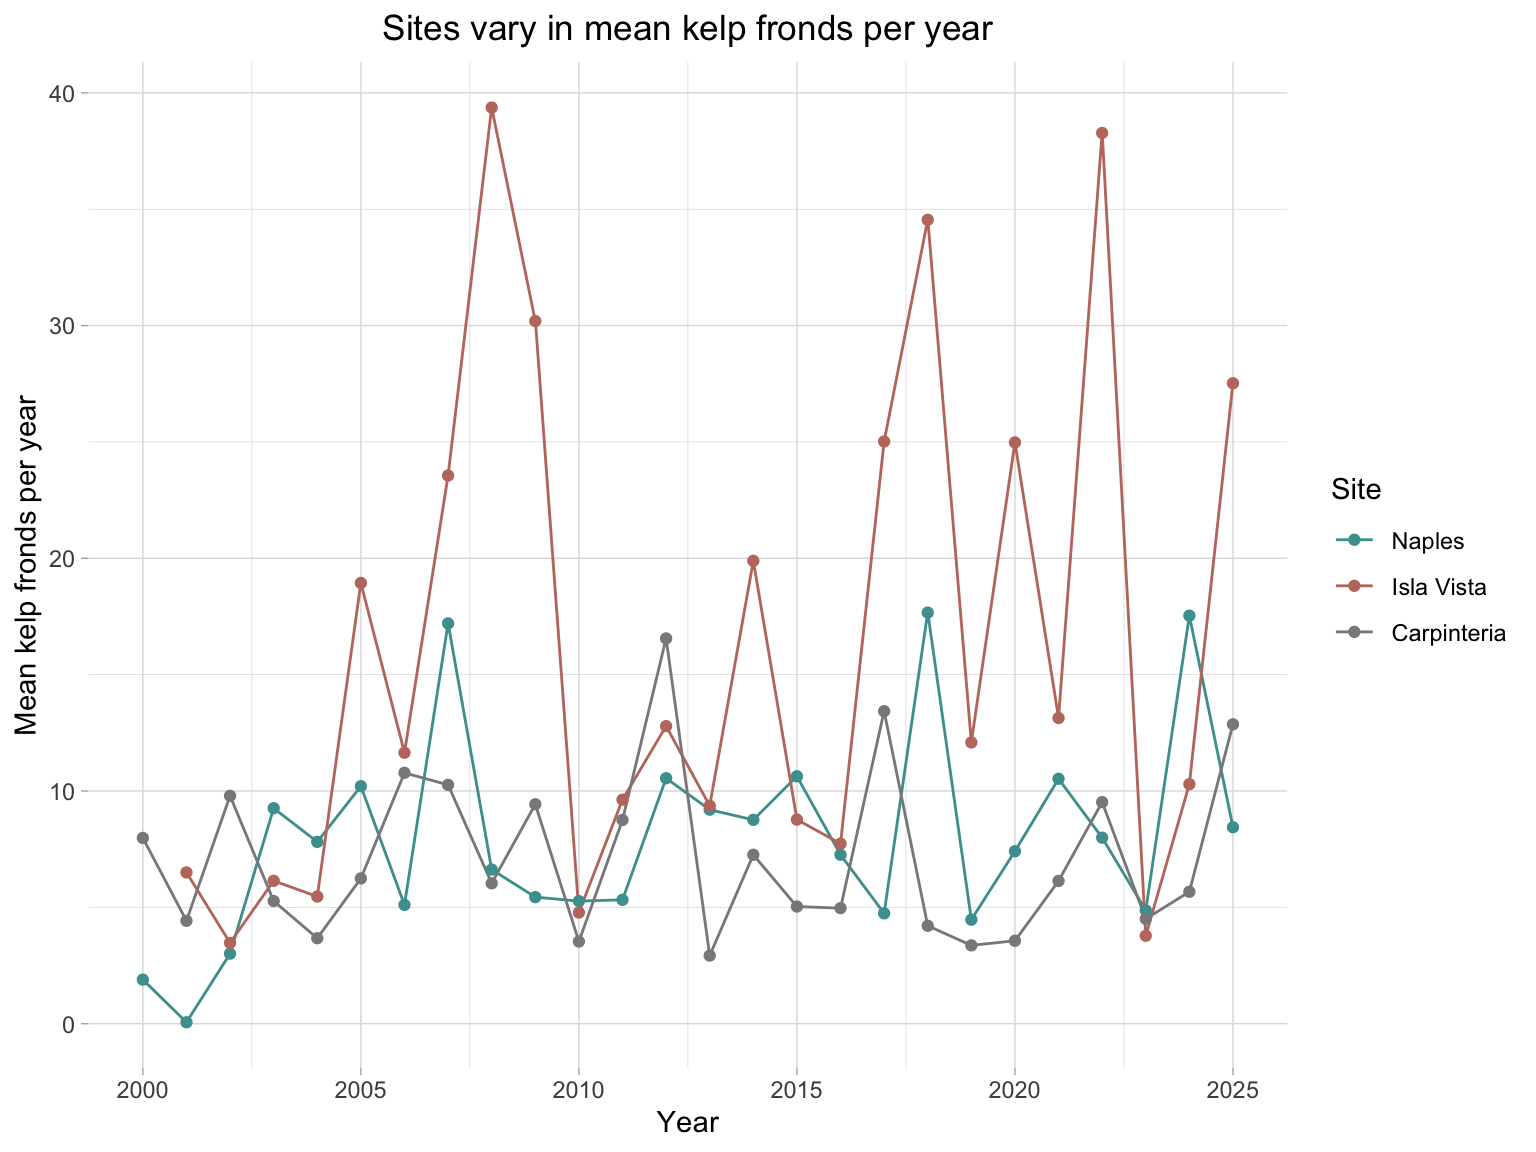
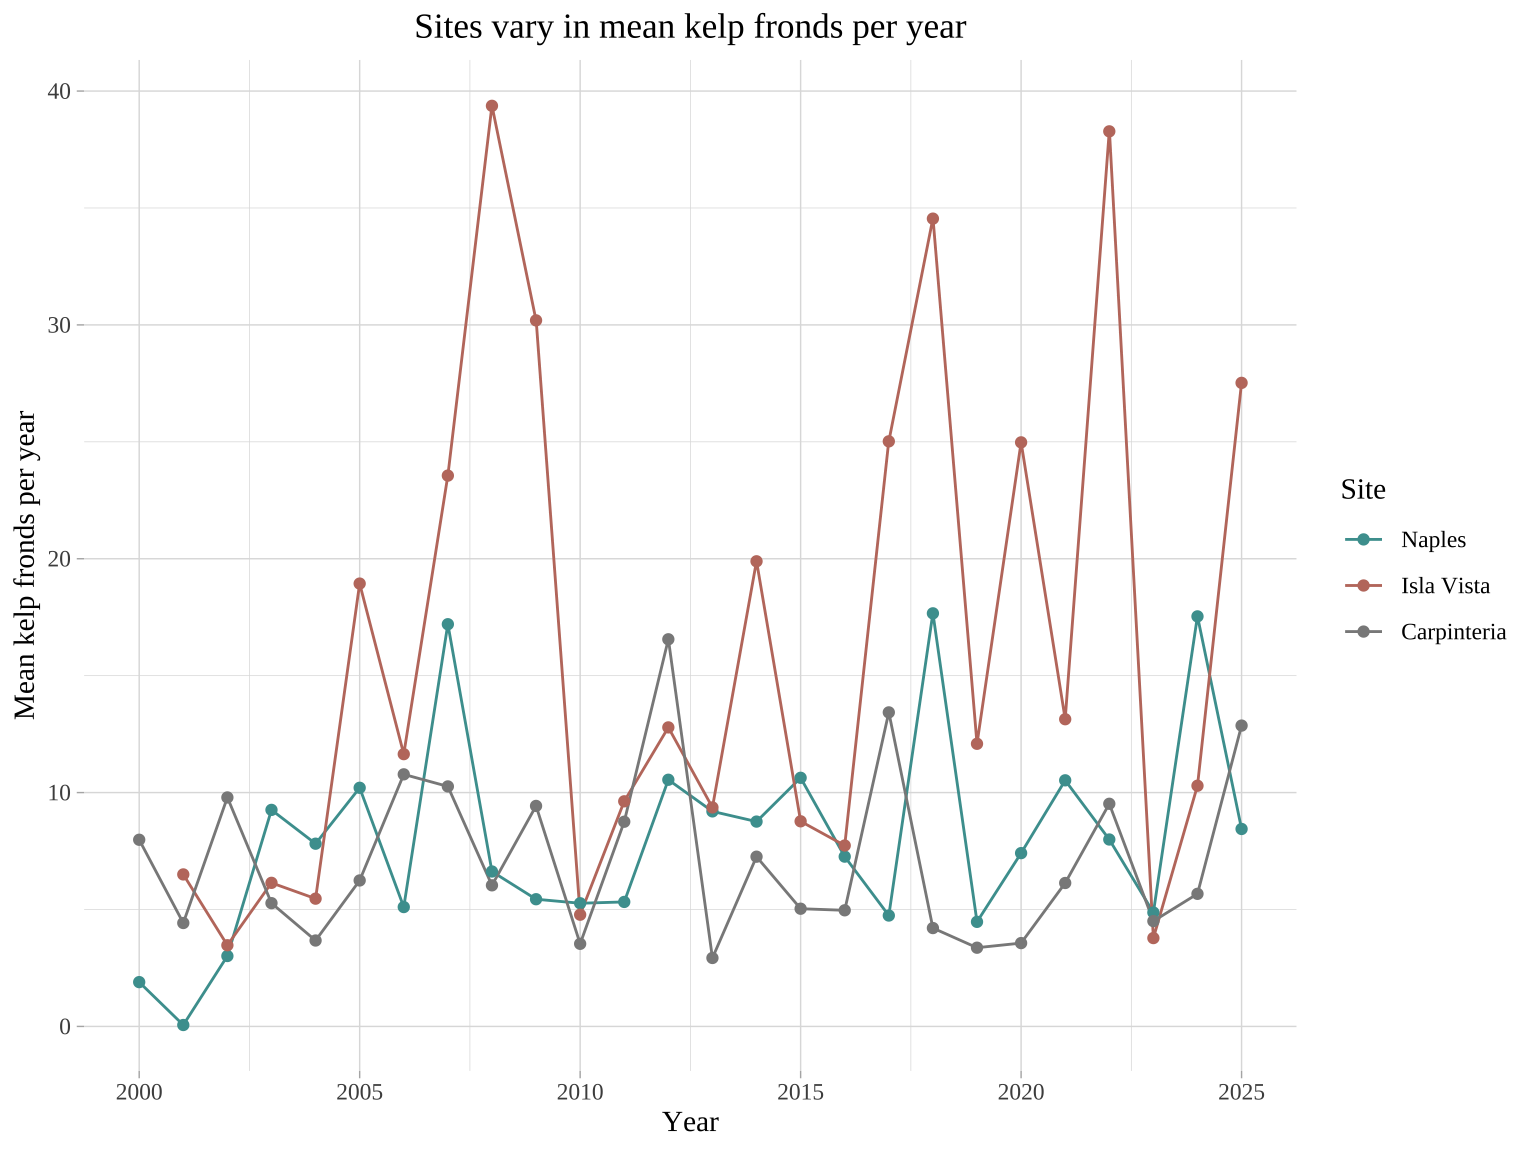
Correcting font on 2c and text on 1c

diff --git a/code/ENVS193DS.html b/code/ENVS193DS.html
@@ -73,6 +73,35 @@ pre > code.sourceCode > span > a:first-child::before { text-decoration: underlin
 <link href="ENVS193DS_files/libs/bootstrap/bootstrap-icons.css" rel="stylesheet">
 <link href="ENVS193DS_files/libs/bootstrap/bootstrap-d6a003b94517c951b2d65075d42fb01b.min.css" rel="stylesheet" append-hash="true" id="quarto-bootstrap" data-mode="light">
 
+  <script src="https://cdnjs.cloudflare.com/polyfill/v3/polyfill.min.js?features=es6"></script>
+  <script src="https://cdn.jsdelivr.net/npm/mathjax@3/es5/tex-chtml-full.js" type="text/javascript"></script>
+
+<script type="text/javascript">
+const typesetMath = (el) => {
+  if (window.MathJax) {
+    // MathJax Typeset
+    window.MathJax.typeset([el]);
+  } else if (window.katex) {
+    // KaTeX Render
+    var mathElements = el.getElementsByClassName("math");
+    var macros = [];
+    for (var i = 0; i < mathElements.length; i++) {
+      var texText = mathElements[i].firstChild;
+      if (mathElements[i].tagName == "SPAN" && texText && texText.data) {
+        window.katex.render(texText.data, mathElements[i], {
+          displayMode: mathElements[i].classList.contains('display'),
+          throwOnError: false,
+          macros: macros,
+          fleqn: false
+        });
+      }
+    }
+  }
+}
+window.Quarto = {
+  typesetMath
+};
+</script>
 
 </head>
 
@@ -177,12 +206,14 @@ pre > code.sourceCode > span > a:first-child::before { text-decoration: underlin
 <span id="cb1-9"><a href="#cb1-9" aria-hidden="true" tabindex="-1"></a><span class="fu">library</span>(DHARMa) <span class="co"># diagnostic check</span></span>
 <span id="cb1-10"><a href="#cb1-10" aria-hidden="true" tabindex="-1"></a><span class="fu">library</span>(rstatix) <span class="co"># cliffs delta</span></span>
 <span id="cb1-11"><a href="#cb1-11" aria-hidden="true" tabindex="-1"></a><span class="fu">library</span>(effsize) <span class="co"># add this — contains cliff.delta()</span></span>
-<span id="cb1-12"><a href="#cb1-12" aria-hidden="true" tabindex="-1"></a></span>
-<span id="cb1-13"><a href="#cb1-13" aria-hidden="true" tabindex="-1"></a><span class="co"># reading in data</span></span>
+<span id="cb1-12"><a href="#cb1-12" aria-hidden="true" tabindex="-1"></a><span class="fu">library</span>(showtext) <span class="co"># custom fonts</span></span>
+<span id="cb1-13"><a href="#cb1-13" aria-hidden="true" tabindex="-1"></a><span class="fu">library</span>(systemfonts) <span class="co"># custom fonts</span></span>
 <span id="cb1-14"><a href="#cb1-14" aria-hidden="true" tabindex="-1"></a></span>
-<span id="cb1-15"><a href="#cb1-15" aria-hidden="true" tabindex="-1"></a>kelp <span class="ot">&lt;-</span> <span class="fu">read_csv</span>(<span class="fu">here</span>(<span class="st">"data"</span>, <span class="st">"Annual_Kelp_All_Years_20250903.csv"</span>)) <span class="co"># read in KFCD abundance and size of giant kelp data and save as an object called kelp</span></span>
-<span id="cb1-16"><a href="#cb1-16" aria-hidden="true" tabindex="-1"></a>mopl <span class="ot">&lt;-</span> <span class="fu">read_csv</span>(<span class="fu">here</span>(<span class="st">"data"</span>, <span class="st">"MOPL_nest-site_selection_Duchardt_et_al._2019.csv"</span>)) <span class="co"># read in Mountain plover data and save as an object called mopl</span></span>
-<span id="cb1-17"><a href="#cb1-17" aria-hidden="true" tabindex="-1"></a>my_data <span class="ot">&lt;-</span> <span class="fu">read_csv</span>(<span class="fu">here</span>(<span class="st">"data"</span>, <span class="st">"Personal_Data_ENVS194DS.csv"</span>)) <span class="co"># read in the personal data as an object named "my_data"</span></span></code></pre></div><button title="Copy to Clipboard" class="code-copy-button"><i class="bi"></i></button></div>
+<span id="cb1-15"><a href="#cb1-15" aria-hidden="true" tabindex="-1"></a><span class="co"># reading in data</span></span>
+<span id="cb1-16"><a href="#cb1-16" aria-hidden="true" tabindex="-1"></a></span>
+<span id="cb1-17"><a href="#cb1-17" aria-hidden="true" tabindex="-1"></a>kelp <span class="ot">&lt;-</span> <span class="fu">read_csv</span>(<span class="fu">here</span>(<span class="st">"data"</span>, <span class="st">"Annual_Kelp_All_Years_20250903.csv"</span>)) <span class="co"># read in KFCD abundance and size of giant kelp data and save as an object called kelp</span></span>
+<span id="cb1-18"><a href="#cb1-18" aria-hidden="true" tabindex="-1"></a>mopl <span class="ot">&lt;-</span> <span class="fu">read_csv</span>(<span class="fu">here</span>(<span class="st">"data"</span>, <span class="st">"MOPL_nest-site_selection_Duchardt_et_al._2019.csv"</span>)) <span class="co"># read in Mountain plover data and save as an object called mopl</span></span>
+<span id="cb1-19"><a href="#cb1-19" aria-hidden="true" tabindex="-1"></a>my_data <span class="ot">&lt;-</span> <span class="fu">read_csv</span>(<span class="fu">here</span>(<span class="st">"data"</span>, <span class="st">"Personal_Data_ENVS194DS.csv"</span>)) <span class="co"># read in the personal data as an object named "my_data"</span></span></code></pre></div><button title="Copy to Clipboard" class="code-copy-button"><i class="bi"></i></button></div>
 </div>
 </section>
 <section id="problem-1.-research-writing" class="level1">
@@ -197,7 +228,7 @@ pre > code.sourceCode > span > a:first-child::before { text-decoration: underlin
 </section>
 <section id="c.-suggestions-for-rewriting" class="level2">
 <h2 class="anchored" data-anchor-id="c.-suggestions-for-rewriting">c.&nbsp;Suggestions for rewriting</h2>
-<p>In part 1, we did not find a significant relationship between precipitation and flooded wetland area in the San Joaquin River Delta (simple linear regression: F(df model, df residual) = test statistic, p = 0.11, α = significance level, adjusted R² = effect size). In part 2, we did not find a significant difference in median flooded wetland area across water year classifications (wet, above normal, below normal, dry, and critical drought) (Kruskal-Wallis test: H(df) = test statistic, p = 0.12, α = significance level).</p>
+<p>In part 1, we did not find a significant relationship between precipitation and flooded wetland area in the San Joaquin River Delta (linear regression, F(df model, df residual) = test statistic, R² = coefficient of determination, p = 0.11, α = significance level). In part 2, we did not find a significant difference in median flooded wetland area across water year classifications (wet, above normal, below normal, dry, and critical drought) (Kruskal-Wallis test, <span class="math inline">\(\chi\)</span><sup>2</sup>(df) = test statistic, p = 0.12, α = significance level).</p>
 </section>
 <section id="d.-interpretation" class="level2">
 <h2 class="anchored" data-anchor-id="d.-interpretation">d.&nbsp;Interpretation</h2>
@@ -226,18 +257,18 @@ pre > code.sourceCode > span > a:first-child::before { text-decoration: underlin
 <span id="cb2-15"><a href="#cb2-15" aria-hidden="true" tabindex="-1"></a>  <span class="fu">summarize</span>(<span class="at">mean_fronds =</span> <span class="fu">mean</span>(fronds)) <span class="sc">|&gt;</span> <span class="co">#  calculate mean fronds per site / year group</span></span>
 <span id="cb2-16"><a href="#cb2-16" aria-hidden="true" tabindex="-1"></a>  <span class="fu">ungroup</span>() <span class="co"># remove grouping</span></span>
 <span id="cb2-17"><a href="#cb2-17" aria-hidden="true" tabindex="-1"></a></span>
-<span id="cb2-18"><a href="#cb2-18" aria-hidden="true" tabindex="-1"></a>  <span class="fu">slice_sample</span>(kelp_clean, <span class="at">n =</span> <span class="dv">5</span>) <span class="co"># display 5 random rows</span></span></code></pre></div><button title="Copy to Clipboard" class="code-copy-button"><i class="bi"></i></button></div>
+<span id="cb2-18"><a href="#cb2-18" aria-hidden="true" tabindex="-1"></a><span class="fu">slice_sample</span>(kelp_clean, <span class="at">n =</span> <span class="dv">5</span>) <span class="co"># display 5 random rows</span></span></code></pre></div><button title="Copy to Clipboard" class="code-copy-button"><i class="bi"></i></button></div>
 <div class="cell-output cell-output-stdout">
 <pre><code># A tibble: 5 × 3
   site_name    year mean_fronds
   &lt;fct&gt;       &lt;dbl&gt;       &lt;dbl&gt;
-1 Naples       2012       10.5 
-2 Carpinteria  2000        7.98
-3 Carpinteria  2003        5.27
-4 Isla Vista   2006       11.6 
-5 Carpinteria  2012       16.6 </code></pre>
+1 Naples       2002        3.01
+2 Carpinteria  2004        3.67
+3 Isla Vista   2013        9.36
+4 Naples       2022        7.99
+5 Naples       2023        4.87</code></pre>
 </div>
-<div class="code-copy-outer-scaffold"><div class="sourceCode cell-code" id="cb4"><pre class="sourceCode r code-with-copy"><code class="sourceCode r"><span id="cb4-1"><a href="#cb4-1" aria-hidden="true" tabindex="-1"></a>  <span class="fu">str</span>(kelp_clean) <span class="co"># display structure</span></span></code></pre></div><button title="Copy to Clipboard" class="code-copy-button"><i class="bi"></i></button></div>
+<div class="code-copy-outer-scaffold"><div class="sourceCode cell-code" id="cb4"><pre class="sourceCode r code-with-copy"><code class="sourceCode r"><span id="cb4-1"><a href="#cb4-1" aria-hidden="true" tabindex="-1"></a><span class="fu">str</span>(kelp_clean) <span class="co"># display structure</span></span></code></pre></div><button title="Copy to Clipboard" class="code-copy-button"><i class="bi"></i></button></div>
 <div class="cell-output cell-output-stdout">
 <pre><code>tibble [77 × 3] (S3: tbl_df/tbl/data.frame)
  $ site_name  : Factor w/ 3 levels "Naples","Isla Vista",..: 1 1 1 1 1 1 1 1 1 1 ...
@@ -271,11 +302,15 @@ pre > code.sourceCode > span > a:first-child::before { text-decoration: underlin
 <span id="cb6-16"><a href="#cb6-16" aria-hidden="true" tabindex="-1"></a>       <span class="at">x =</span> <span class="st">"Year"</span>, <span class="co"># x-axis label</span></span>
 <span id="cb6-17"><a href="#cb6-17" aria-hidden="true" tabindex="-1"></a>       <span class="at">y =</span> <span class="st">"Mean kelp fronds per year"</span>, <span class="co"># y-axis label</span></span>
 <span id="cb6-18"><a href="#cb6-18" aria-hidden="true" tabindex="-1"></a>       <span class="at">color =</span> <span class="st">"Site"</span>) <span class="sc">+</span> <span class="co"># capitalizing Site in key </span></span>
-<span id="cb6-19"><a href="#cb6-19" aria-hidden="true" tabindex="-1"></a>  <span class="fu">theme_light</span>() <span class="sc">+</span>  <span class="co"># provides blank panel background with axis lines</span></span>
-<span id="cb6-20"><a href="#cb6-20" aria-hidden="true" tabindex="-1"></a>  <span class="fu">theme</span>(</span>
-<span id="cb6-21"><a href="#cb6-21" aria-hidden="true" tabindex="-1"></a>    <span class="at">plot.title =</span> <span class="fu">element_text</span>(<span class="at">hjust =</span> <span class="fl">0.5</span>), <span class="co"># center title</span></span>
-<span id="cb6-22"><a href="#cb6-22" aria-hidden="true" tabindex="-1"></a>    <span class="at">panel.border =</span> <span class="fu">element_blank</span>() <span class="co"># no border</span></span>
-<span id="cb6-23"><a href="#cb6-23" aria-hidden="true" tabindex="-1"></a>  )</span></code></pre></div><button title="Copy to Clipboard" class="code-copy-button"><i class="bi"></i></button></div>
+<span id="cb6-19"><a href="#cb6-19" aria-hidden="true" tabindex="-1"></a><span class="fu">theme_light</span>(<span class="at">base_family =</span> <span class="st">"serif"</span>) <span class="sc">+</span></span>
+<span id="cb6-20"><a href="#cb6-20" aria-hidden="true" tabindex="-1"></a><span class="fu">theme</span>(</span>
+<span id="cb6-21"><a href="#cb6-21" aria-hidden="true" tabindex="-1"></a>  <span class="at">plot.title =</span> <span class="fu">element_text</span>(<span class="at">hjust =</span> <span class="fl">0.5</span>, <span class="at">family =</span> <span class="st">"serif"</span>),</span>
+<span id="cb6-22"><a href="#cb6-22" aria-hidden="true" tabindex="-1"></a>  <span class="at">axis.title =</span> <span class="fu">element_text</span>(<span class="at">family =</span> <span class="st">"serif"</span>),</span>
+<span id="cb6-23"><a href="#cb6-23" aria-hidden="true" tabindex="-1"></a>  <span class="at">axis.text =</span> <span class="fu">element_text</span>(<span class="at">family =</span> <span class="st">"serif"</span>),</span>
+<span id="cb6-24"><a href="#cb6-24" aria-hidden="true" tabindex="-1"></a>  <span class="at">legend.title =</span> <span class="fu">element_text</span>(<span class="at">family =</span> <span class="st">"serif"</span>),</span>
+<span id="cb6-25"><a href="#cb6-25" aria-hidden="true" tabindex="-1"></a>  <span class="at">legend.text =</span> <span class="fu">element_text</span>(<span class="at">family =</span> <span class="st">"serif"</span>),</span>
+<span id="cb6-26"><a href="#cb6-26" aria-hidden="true" tabindex="-1"></a>  <span class="at">panel.border =</span> <span class="fu">element_blank</span>()</span>
+<span id="cb6-27"><a href="#cb6-27" aria-hidden="true" tabindex="-1"></a>)</span></code></pre></div><button title="Copy to Clipboard" class="code-copy-button"><i class="bi"></i></button></div>
 <div class="cell-output-display">
 <div>
 <figure class="figure">
@@ -410,7 +445,7 @@ mopl_model3  2 331.7690</code></pre>
 <div class="cell-output-display">
 <div>
 <figure class="figure">
-<p><img src="ENVS193DS_files/figure-html/unnamed-chunk-3-1.png" class="img-fluid figure-img" width="672"></p>
+<p><img src="ENVS193DS_files/figure-html/unnamed-chunk-4-1.png" class="img-fluid figure-img" width="672"></p>
 </figure>
 </div>
 </div>
@@ -457,7 +492,7 @@ mopl_model3  2 331.7690</code></pre>
 <div class="cell-output-display">
 <div>
 <figure class="figure">
-<p><img src="ENVS193DS_files/figure-html/unnamed-chunk-4-1.png" class="img-fluid figure-img" width="672"></p>
+<p><img src="ENVS193DS_files/figure-html/unnamed-chunk-5-1.png" class="img-fluid figure-img" width="672"></p>
 </figure>
 </div>
 </div>
@@ -527,7 +562,7 @@ vo_nest | Predicted |     95% CI
 <div class="cell-output-display">
 <div>
 <figure class="figure">
-<p><img src="ENVS193DS_files/figure-html/unnamed-chunk-7-1.png" class="img-fluid figure-img" width="672"></p>
+<p><img src="ENVS193DS_files/figure-html/unnamed-chunk-8-1.png" class="img-fluid figure-img" width="672"></p>
 </figure>
 </div>
 </div>
@@ -625,7 +660,7 @@ delta estimate: 0.3219697 (small)
 <div class="cell-output-display">
 <div>
 <figure class="figure">
-<p><img src="ENVS193DS_files/figure-html/unnamed-chunk-11-1.png" class="img-fluid figure-img" width="672"></p>
+<p><img src="ENVS193DS_files/figure-html/unnamed-chunk-12-1.png" class="img-fluid figure-img" width="672"></p>
 </figure>
 </div>
 </div>
